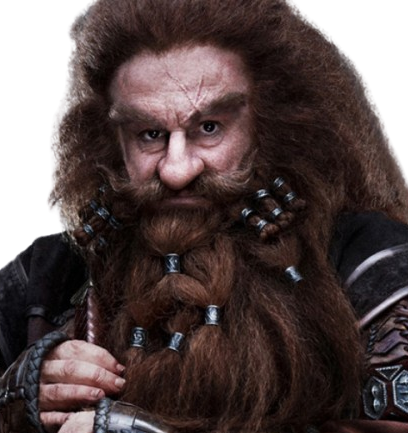
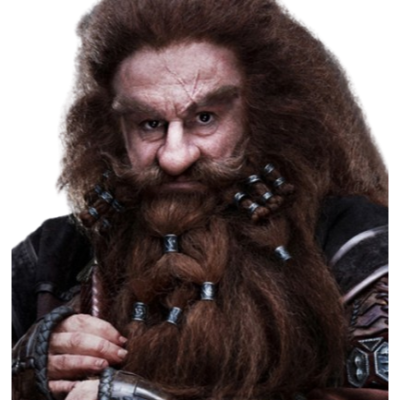
lobby creado

diff --git a/Lobby.html b/Lobby.html
@@ -8,17 +8,17 @@
 <body>
     <div class="topLobby">
         <div class="imagenLobby">
-            <p>imagen</p>
+            <img class="tamanioImagen" id="imagen" src="">
         </div>
         <div class="conjuntoEstadisticasLobby">
             <p>ESTADÍSTICAS</p>
             <div class="estadisticasLobby">
-                <p>Vida<span></span></p>
-                <p>Mana<span></span></p>
-                <p>Daño físico<span></span></p>
-                <p>Armadura<span></span></p>
-                <p>Poder Mágico<span></span></p>
-                <p>Resistencia Mágica<span></span></p>
+                <p>Vida<span id="spanVida"></span></p>
+                <p>Mana<span id="spanMana"></span></p>
+                <p>Daño físico<span id="spanDanioFisico"></span></p>
+                <p>Armadura<span id="spanArmadura"></span></p>
+                <p>Poder Mágico<span id="spanPoderMagico"></span></p>
+                <p>Resistencia Mágica<span id="spanResistenciaMagica"></span></p>
             </div>
         </div>
         <div class="opcionesLobby">
@@ -28,13 +28,15 @@
         </div>
     </div>
     <div class="caracteristicasLobby">
-        <p>Nombre<span></span></p>
-        <p>Raza<span></span></p>
-        <p>Nivel<span></span></p>
-        <p>Experiencia<span></span></p>
+        <p>Nombre<span id="spanNombre"></span></p>
+        <p>Raza<span id="spanRaza"></span></p>
+        <p>Nivel<span id="spanNivel"></span></p>
+        <p>Experiencia<span id="spanExperiencia"></span></p>
+        <p>Oro<span id="spanOro"></span></p>
     </div>
     <p><a class="botonVolverLobby" href="Index.html">Volver</a></p>
     <canvas class="canvas" id="backgroundCanvas"></canvas>
+    <script src="Clases/Lobby.js"></script>
     <script src="Clases/FondoAnimado.js"></script>
 </body>
 </html>

diff --git a/Clases/Lobby.js b/Clases/Lobby.js
@@ -1,0 +1,42 @@
+document.addEventListener('DOMContentLoaded', ()=> {
+
+
+    //Atributos parte superior
+    const spanVida = document.querySelector("#spanVida");
+    const spanMana = document.querySelector("#spanMana");
+    const spanDanioFisico = document.querySelector("#spanDanioFisico");
+    const spanArmadura = document.querySelector("#spanArmadura");
+    const spanOro = document.querySelector("#spanOro");
+
+    //Imagen
+    const imagen = document.querySelector("#imagen");
+
+    //Atributos parte inferior
+    const spanNombre = document.querySelector("#spanNombre");
+    const spanRaza = document.querySelector("#spanRaza");
+    const spanNivel = document.querySelector("#spanNivel");
+    const spanExperiencia = document.querySelector("#spanExperiencia");
+    const spanPoderMagico = document.querySelector("#spanPoderMagico")
+    const spanResistenciaMagica = document.querySelector("#spanResistenciaMagica")
+
+    const personaje = JSON.parse(localStorage.getItem('personaje'));
+
+    if(personaje){
+
+    spanVida.textContent = " : " + personaje.vida.actual;
+    spanMana.textContent = " : " + personaje.mana.actual;
+    spanDanioFisico.textContent = " : " + personaje.ataque;
+    spanArmadura.textContent = " : " + personaje.defensa;
+    spanPoderMagico.textContent = " : " + personaje.magia;
+    spanResistenciaMagica.textContent = " : " + personaje.resistenciaMagica;
+
+    spanNombre.textContent = " : " + personaje.nombre;
+    spanRaza.textContent = " : " + personaje.raza;
+    spanNivel.textContent = " : " + personaje.nivel;
+    spanExperiencia.textContent = " : " + personaje.experiencia; 
+    spanOro.textContent = " : " + personaje.oro;
+
+    imagen.src = personaje.imagen;
+    
+    }
+});

diff --git a/Clases/CreadorPersonaje.js b/Clases/CreadorPersonaje.js
@@ -50,6 +50,8 @@ document.addEventListener('DOMContentLoaded',()=>{
         localStorage.setItem('personaje',JSON.stringify(personaje.convertirJson()));
         alert("Bienvenido a la BATALLA DE LOS 5 PUEBLOS!");
         window.location.href='Lobby.html'; // Una vez creado va a la página del lobby
+        window.personaje = personaje; // Se guarda el personaje en una variable general para poder recibirla desde otros archivos.
+
     });
     //Evento para cambiar a la imagen predeterminada al reiniciar
     formulario.addEventListener('reset',()=>{

diff --git a/Clases/Enemigos.js b/Clases/Enemigos.js
@@ -1,0 +1,17 @@
+export default class Enemigos{
+
+    #nombre
+    #raza;
+    #vida=100;
+    #mana=100;
+    #ataque=100;
+    #defensa=100;
+    #magia=100;
+    #resistenciaMagica=100;
+    #nivel=1;
+
+    constructor(){
+
+    }
+
+}

diff --git a/Style.css b/Style.css
@@ -122,3 +122,10 @@ a:hover{
     margin-left: 3%;
 }
 
+.tamanioImagen{
+    height: 96%;
+    margin-left: auto;
+    margin-right: auto;
+    padding-left: 15%;
+}
+

diff --git a/Clases/Personaje.js b/Clases/Personaje.js
@@ -234,5 +234,6 @@ export default class Personaje{
    get imagen() {
       return this.#imagen;
    }
+
    
 }
